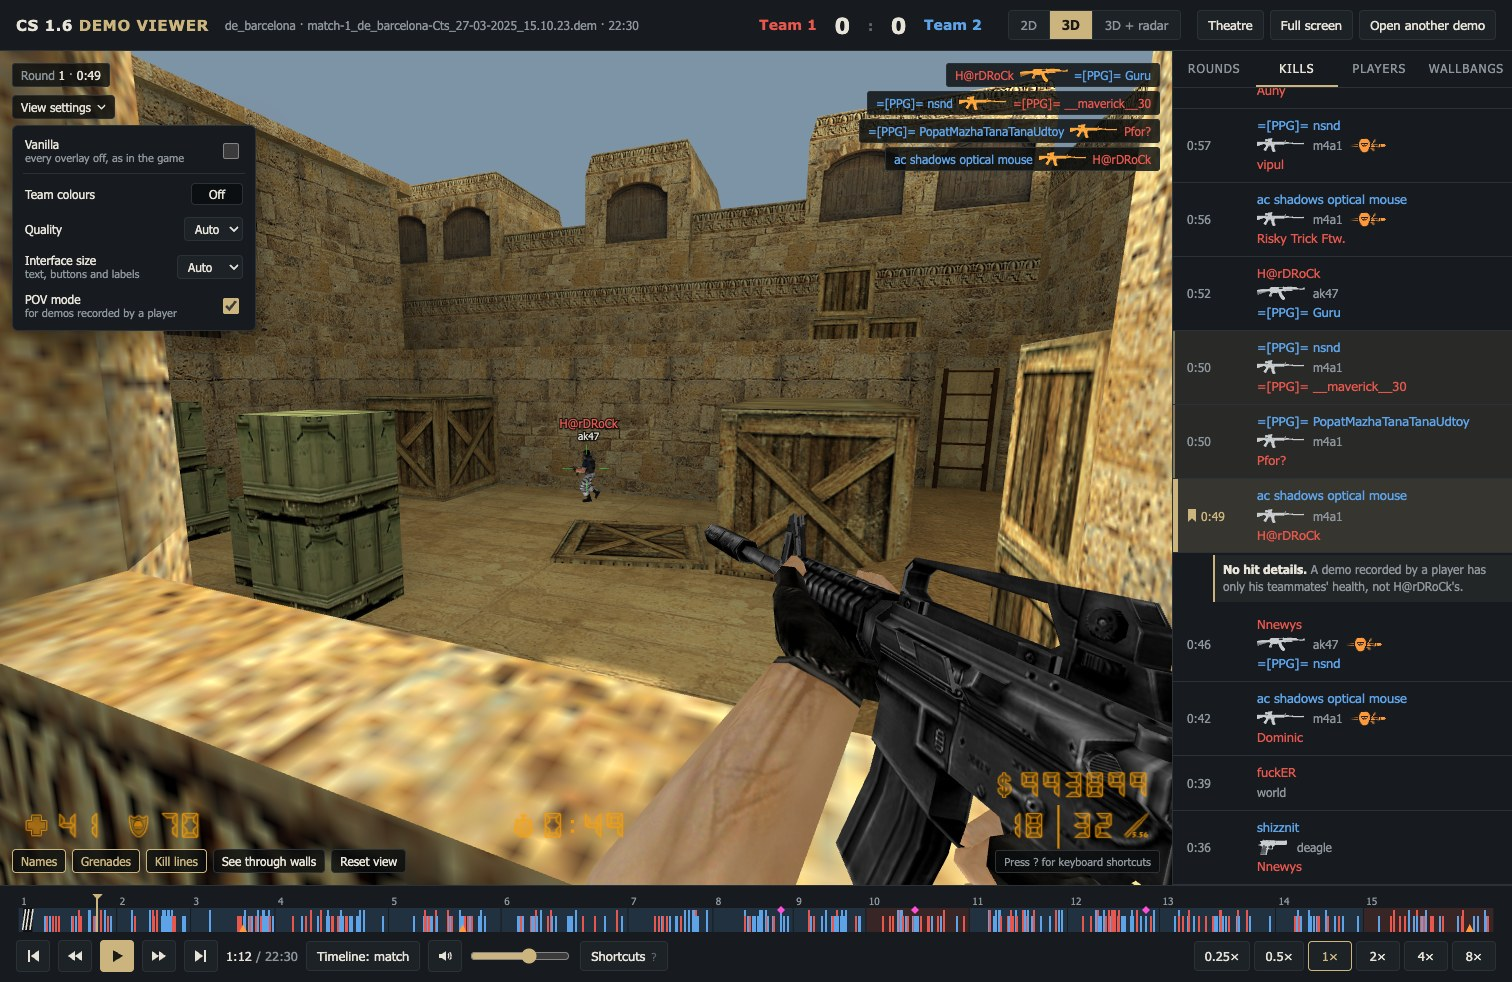
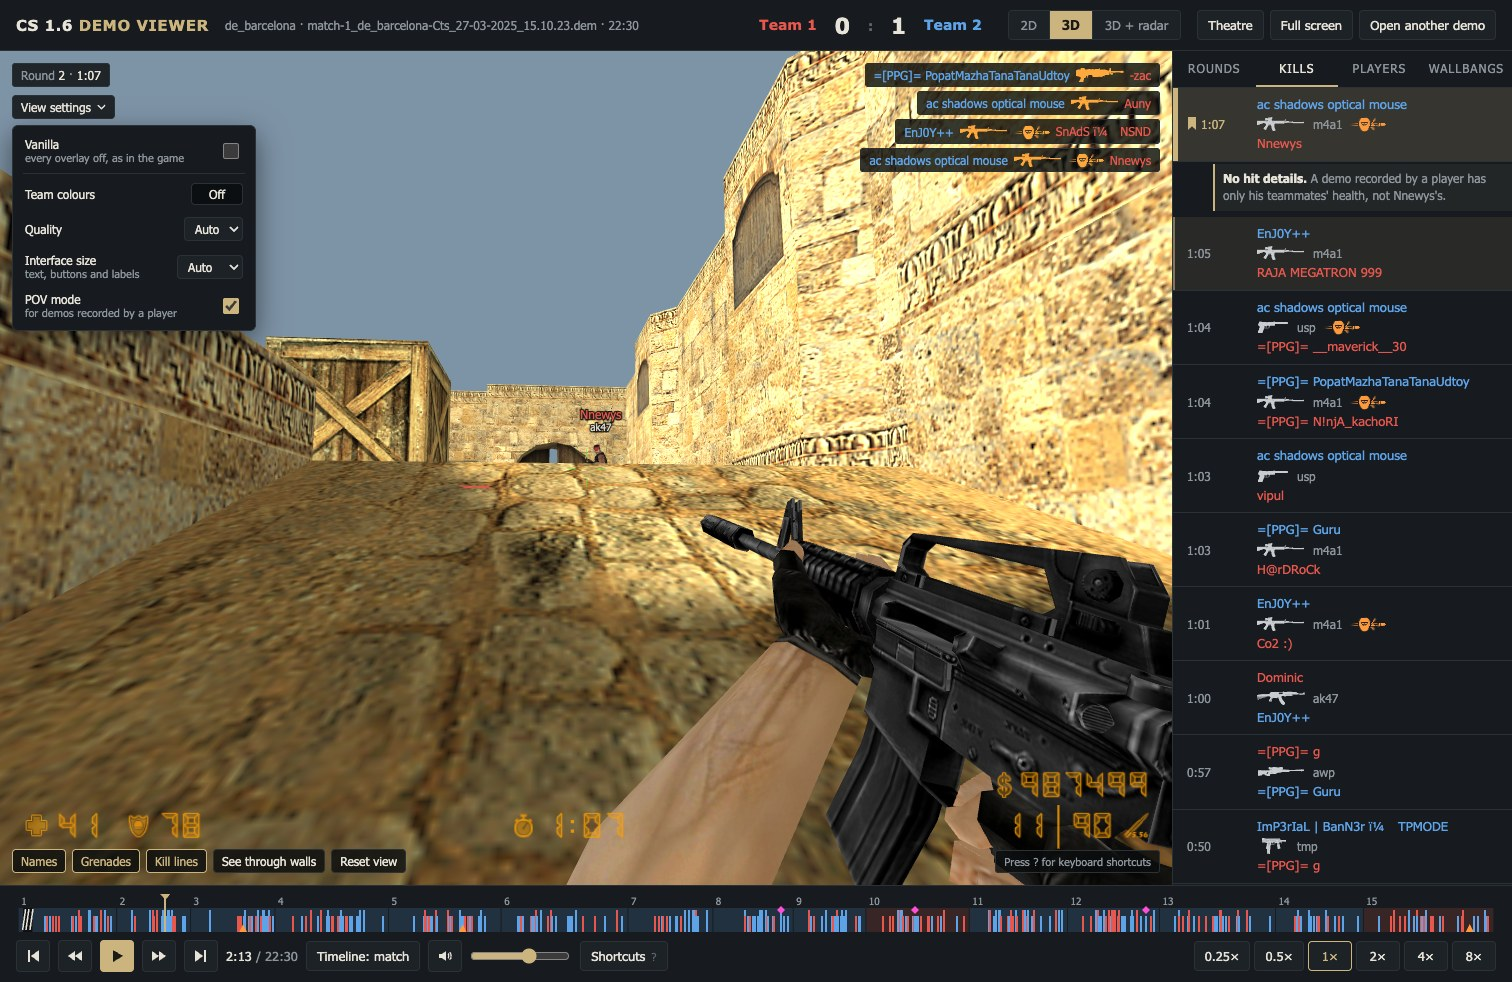
screenshots: 0.26.16 POV pictures retaken without crude player names

diff --git a/README.md b/README.md
@@ -9,6 +9,6 @@ The "before" pictures (`*-0.26.15.jpg`) come from a 0.26.15 build of main at `a1
 - `vset-*`: **View settings** open: **Vanilla** first, **Damage numbers** before **Glow on hits**.
 - `wblist-*`: the same kill picked in the Wallbangs list.
 - `vanilla-*`: **Vanilla** on.
-- `pov-*`: **POV mode** on Match 1 CT (public server, de_barcelona, 27 Mar 2025), R1 0:49, his M4A1 kill on H@rDRoCk picked ("No hit details."), **View settings** open without **Damage numbers**.
+- `pov-*`: **POV mode** on Match 1 CT (public server, de_barcelona, 27 Mar 2025), R2 1:07, his M4A1 kill on Nnewys picked ("No hit details."), **View settings** open without **Damage numbers**. Retaken 3 Nov 2026 (Sujan): the first pair, at R1 0:49, showed a crude player name from the public server in the Kills list; at R2 1:07 none is on screen at either size.
 
 Measurements: `tests/logs/0.26.16.md` on main.
